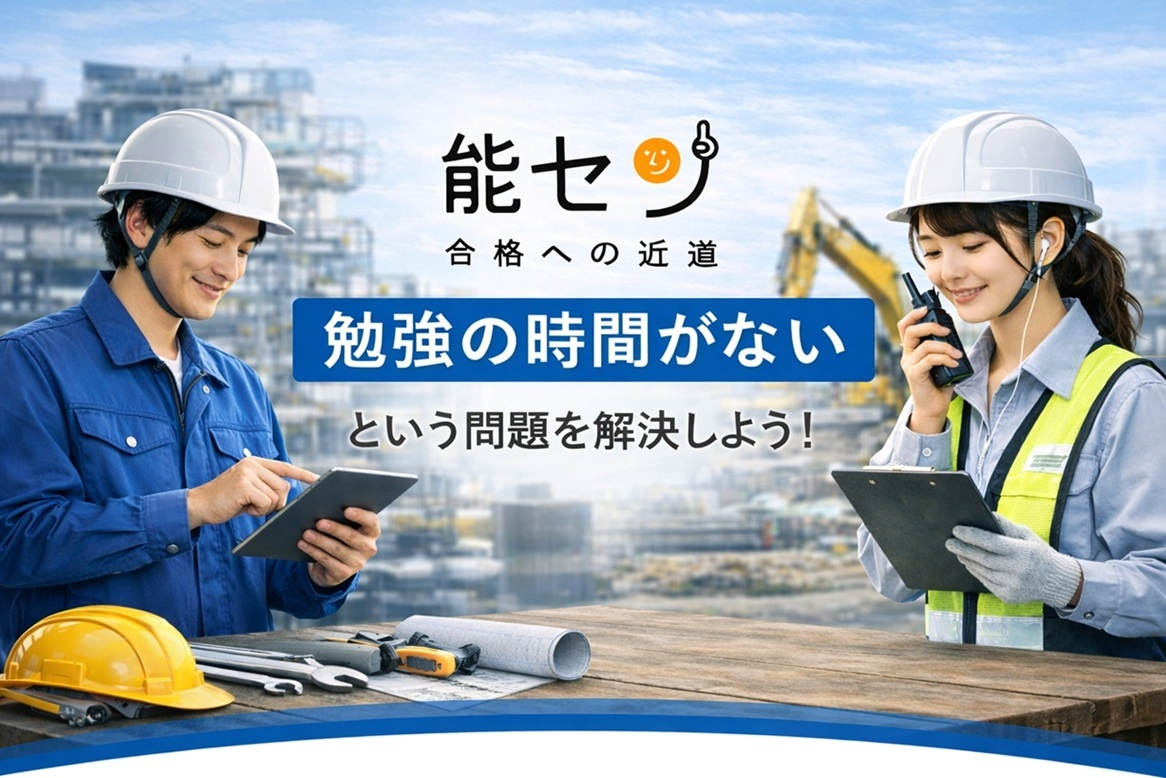
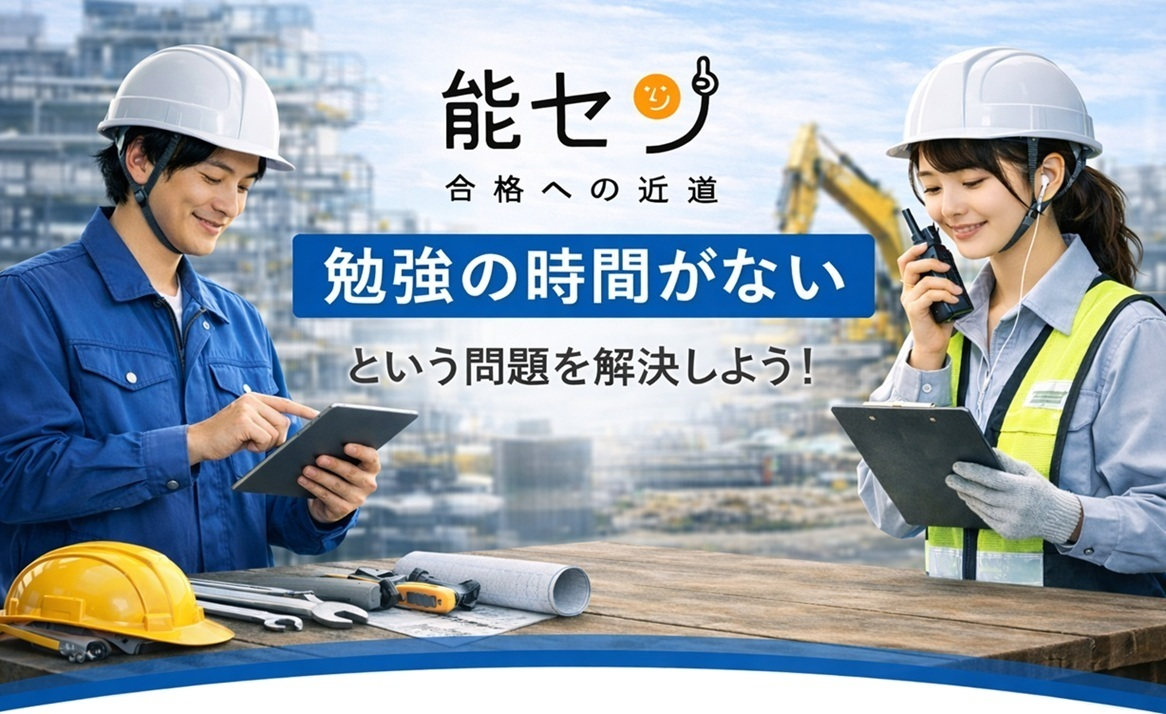
ADD:追加修正④

diff --git a/src/pages/Index.vue b/src/pages/Index.vue
@@ -1279,7 +1279,7 @@ query {
       width: 100%;
       object-fit: cover;
       @media print, screen and (min-width: 1441px) {
-        width: 76%;
+        width: 66%;
         display: block;
         margin: 0 auto;
       }
